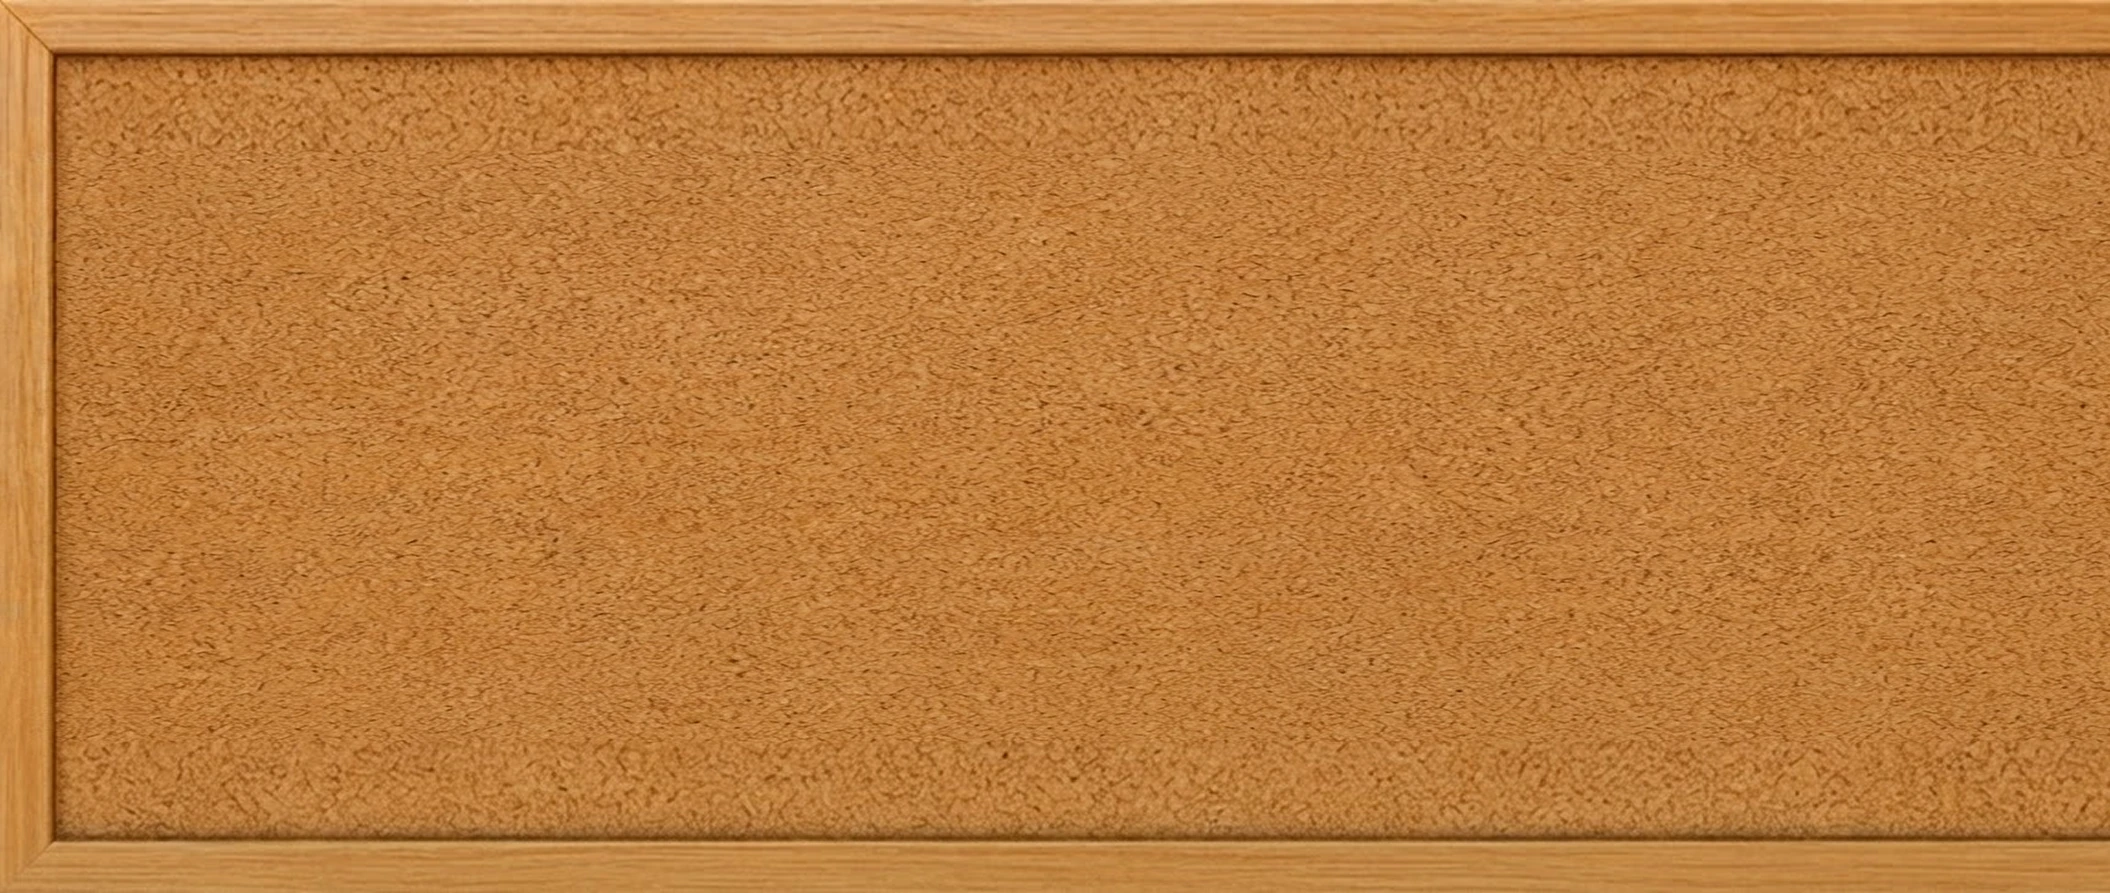
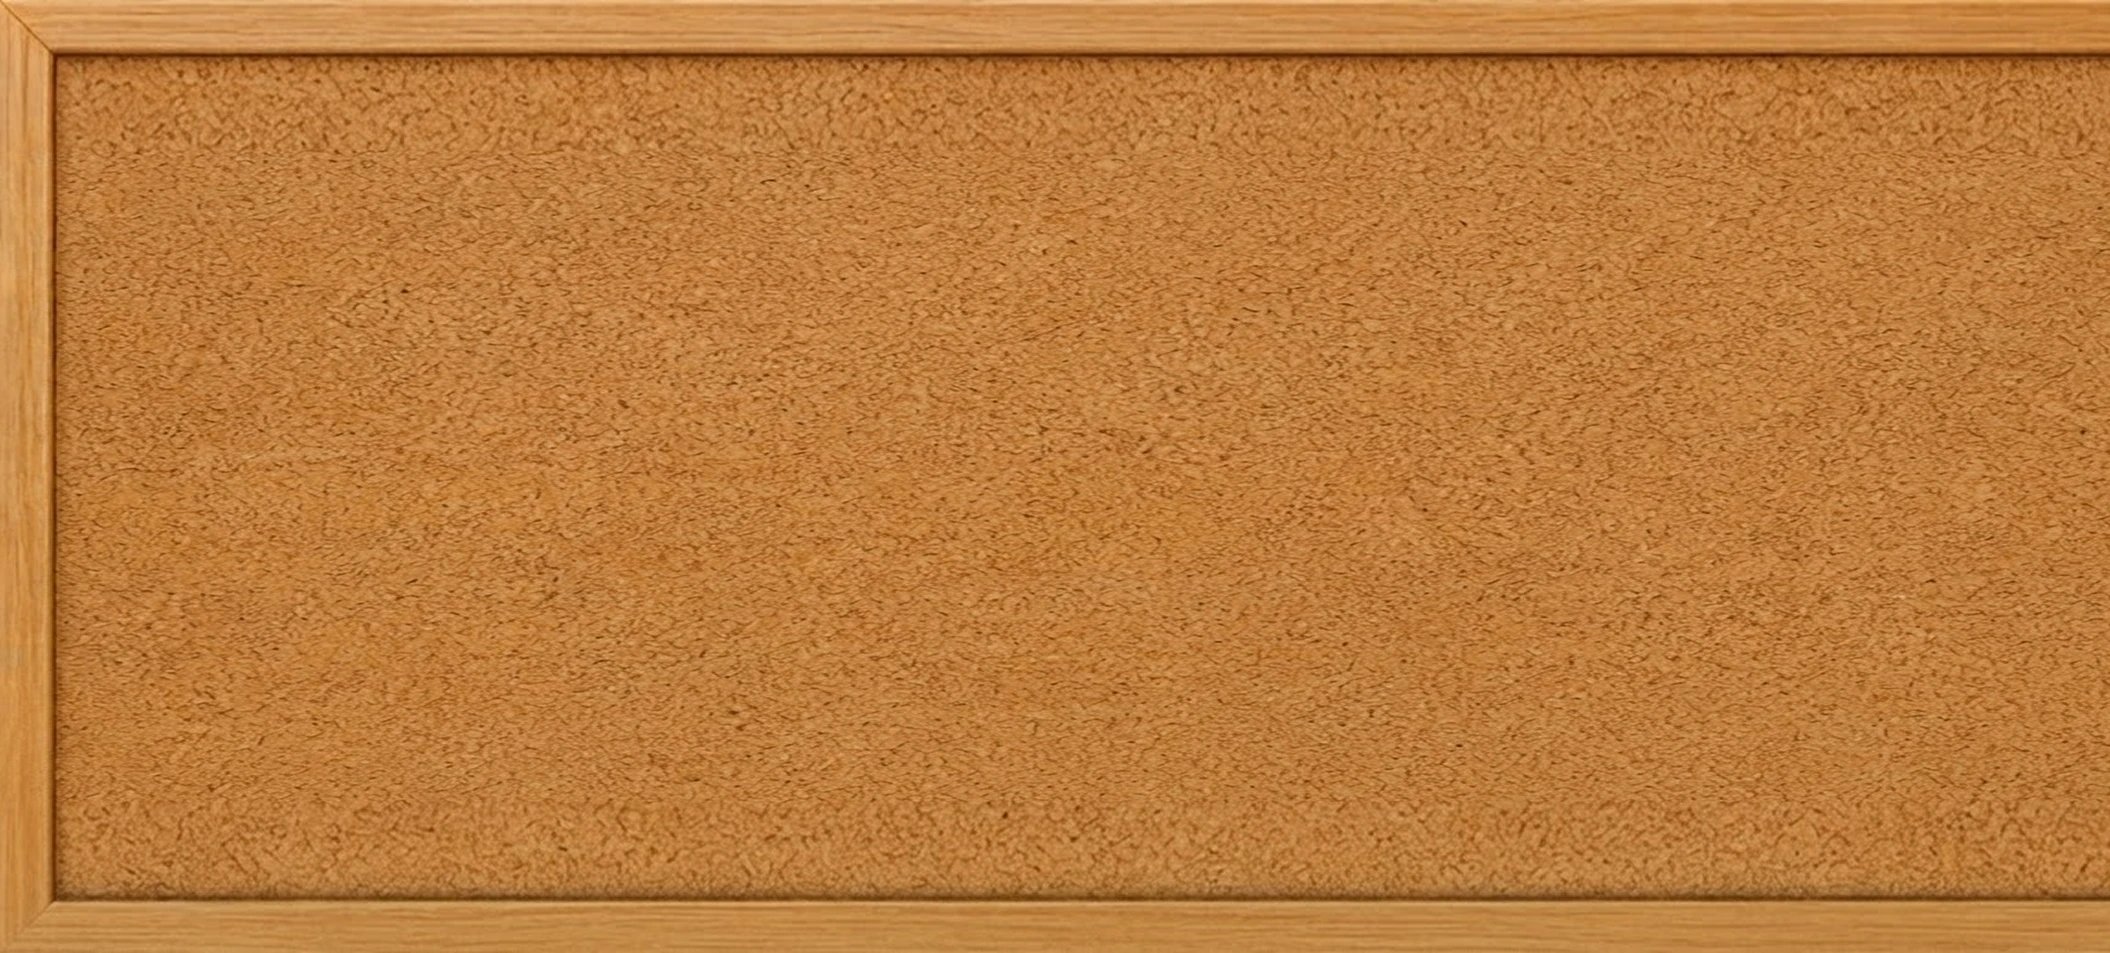
Spread the About board out and enlarge the photo strip
Group is 1075 design units wide now, up from 966, and the photo strip is
1020 up from 875 (+17%). The books, stickies and Piplup all grew ~10% and
were re-spaced across 450..1520 instead of 454..1420.

The binding constraint was vertical, not horizontal. The strip is 3:1, so
widening it makes it taller, and the inner cork only had 62px of slack
over the content — nothing could grow. So the board got taller first:
cork.webp is re-9-sliced to 2110x953 (middle squeezed 1.82x rather than
2.00x), which at 1660 wide is 750 tall instead of 702, and the board moved
up to y 256. That buys 664px of inner cork against 552 of content, and the
strip could take 50 of the 112.

Two things follow from the group's new span, and both would be silent
bugs if missed:

* The centring constant in .ab__pins had to be re-derived — it encodes the
  group's centre (985, was 937), so a stale value leaves the group visibly
  off-centre on the board. The comment now says how to re-derive it.

* At 3:2 and narrower there is no spare cork at all: the visible board is
  design x 423..1440, which is 1017 wide, against a 1075 group. Shifting
  cannot fit something wider than the space, and the group ran 80px off the
  right edge at 1440x1024 and 1200x1000. Those ratios now scale the group
  to 0.91 about design x 423, the board's inner left edge, so it shrinks
  toward the frame it already sits against rather than off it.

Verified at 1512x850, 1440x900, 1728x1117, 1920x1080, 1280x720, 1440x1024
[…]

Changed region(s): [[0.0308, 0.5442, 1.0, 0.9675], [0.0, 0.0302, 1.0, 0.4535]]

diff --git a/client/src/data/sections.js b/client/src/data/sections.js
@@ -175,9 +175,9 @@ export const PROJECT_ITEMS = [
 export const ABOUT_MAT = {
   src: '/flatlay/cork.webp',
   iw: 2110,
-  ih: 893,
+  ih: 953,
   x: 380,
-  y: 282,
+  y: 256,
   w: 1660,
 };
 
@@ -200,9 +200,9 @@ export const ABOUT_ITEMS = [
     src: '/flatlay/sticky-swim.webp',
     iw: 360,
     ih: 361,
-    x: 454,
-    y: 418,
-    w: 162,
+    x: 450,
+    y: 383,
+    w: 178,
     rotate: -3,
     hoverRotate: 1,
     z: 5,
@@ -213,9 +213,9 @@ export const ABOUT_ITEMS = [
     src: '/flatlay/piplup.webp',
     iw: 304,
     ih: 294,
-    x: 612,
-    y: 434,
-    w: 152,
+    x: 640,
+    y: 400,
+    w: 167,
     rotate: 0,
     hoverRotate: -4,
     z: 6,
@@ -226,9 +226,9 @@ export const ABOUT_ITEMS = [
     src: '/flatlay/book-evelyn.webp',
     iw: 397,
     ih: 540,
-    x: 743,
-    y: 369,
-    w: 190,
+    x: 785,
+    y: 325,
+    w: 209,
     rotate: 0,
     hoverRotate: -2.5,
     z: 7,
@@ -239,9 +239,9 @@ export const ABOUT_ITEMS = [
     src: '/flatlay/book-hamnet.webp',
     iw: 364,
     ih: 520,
-    x: 928,
-    y: 357,
-    w: 180,
+    x: 990,
+    y: 325,
+    w: 198,
     rotate: 0,
     hoverRotate: 2,
     z: 8,
@@ -252,9 +252,9 @@ export const ABOUT_ITEMS = [
     src: '/flatlay/book-atmosphere.webp',
     iw: 346,
     ih: 509,
-    x: 1100,
-    y: 357,
-    w: 175,
+    x: 1178,
+    y: 325,
+    w: 193,
     rotate: 0,
     hoverRotate: -2,
     z: 9,
@@ -265,9 +265,9 @@ export const ABOUT_ITEMS = [
     src: '/flatlay/sticky-books.webp',
     iw: 377,
     ih: 378,
-    x: 1252,
-    y: 401,
-    w: 168,
+    x: 1335,
+    y: 368,
+    w: 185,
     rotate: 0,
     hoverRotate: 3,
     z: 10,
@@ -278,9 +278,9 @@ export const ABOUT_ITEMS = [
     src: '/flatlay/photo-penguin.webp',
     iw: 199,
     ih: 278,
-    x: 1056,
-    y: 517,
-    w: 88,
+    x: 1115,
+    y: 480,
+    w: 97,
     rotate: 0,
     hoverRotate: -3,
     z: 11,
@@ -291,9 +291,9 @@ export const ABOUT_ITEMS = [
     src: '/flatlay/photo-strip.webp',
     iw: 1682,
     ih: 562,
-    x: 520,
-    y: 616,
-    w: 875,
+    x: 485,
+    y: 600,
+    w: 1020,
     rotate: 0,
     hoverRotate: 0.8,
     z: 12,
@@ -309,7 +309,7 @@ export const ABOUT_SHELF = [
     iw: 448,
     ih: 448,
     x: 88,
-    y: 310,
+    y: 290,
     w: 224,
     rotate: 0,
     hoverRotate: 0,
@@ -323,7 +323,7 @@ export const ABOUT_SHELF = [
     iw: 546,
     ih: 686,
     x: 59,
-    y: 563,
+    y: 543,
     w: 290,
     rotate: -1,
     hoverRotate: 1.5,

diff --git a/client/src/components/sections/AboutSection.css b/client/src/components/sections/AboutSection.css
@@ -40,10 +40,14 @@
 
    So the shift is computed instead: it centres the group in the
    cork that is actually on screen. Derivation — the group spans
-   design x 454..1420 (centre 937), the board's inner edge is at
-   424, and the visible design width is 1440 * winW/stageW, so
-   centring works out to 0.5*winW - 0.5035*stageW, and stageW is
+   design x 450..1520 (centre 985), the board's inner edge is at
+   423, and the visible design width is 1440 * winW/stageW, so
+   centring works out to 0.5*winW - 0.5372*stageW, and stageW is
    --stage-h * 1440/1024.
+
+   Re-derive the constant whenever the group's span changes: it is
+   ((423 + 1440R)/2 - centre) converted to px, and a stale one
+   leaves the group visibly off-centre on the board.
 
    The max() is the safety net that makes this better than a
    constant: at the design ratio and on anything taller the term
@@ -51,7 +55,23 @@
    was authored and nothing can ever be pushed off the right
    edge. */
 .deck.is-deck .ab__pins {
-  translate: max(0px, calc(50vw - 0.708 * var(--stage-h))) 0;
+  translate: max(0px, calc(50vw - 0.7557 * var(--stage-h))) 0;
+}
+
+/* At 3:2 and narrower there is no spare cork to slide into at all: the
+   visible board is design x 423..1440, which is 1017 wide, and the group is
+   1075. Shifting cannot fit something wider than the space, so the group
+   scales down instead — about design x 423 (29.4% of the stage), the board's
+   inner left edge, so the left margin survives the scale and the group
+   shrinks toward the frame it is already sitting against rather than off it.
+
+   Above this ratio the stage is narrower than the window, the extra cork
+   exists, and the translate above does the work with no scaling at all. */
+@media (max-aspect-ratio: 3 / 2) {
+  .deck.is-deck .ab__pins {
+    transform-origin: 29.4% 50%;
+    scale: 0.91;
+  }
 }
 
 .ab__pins {
